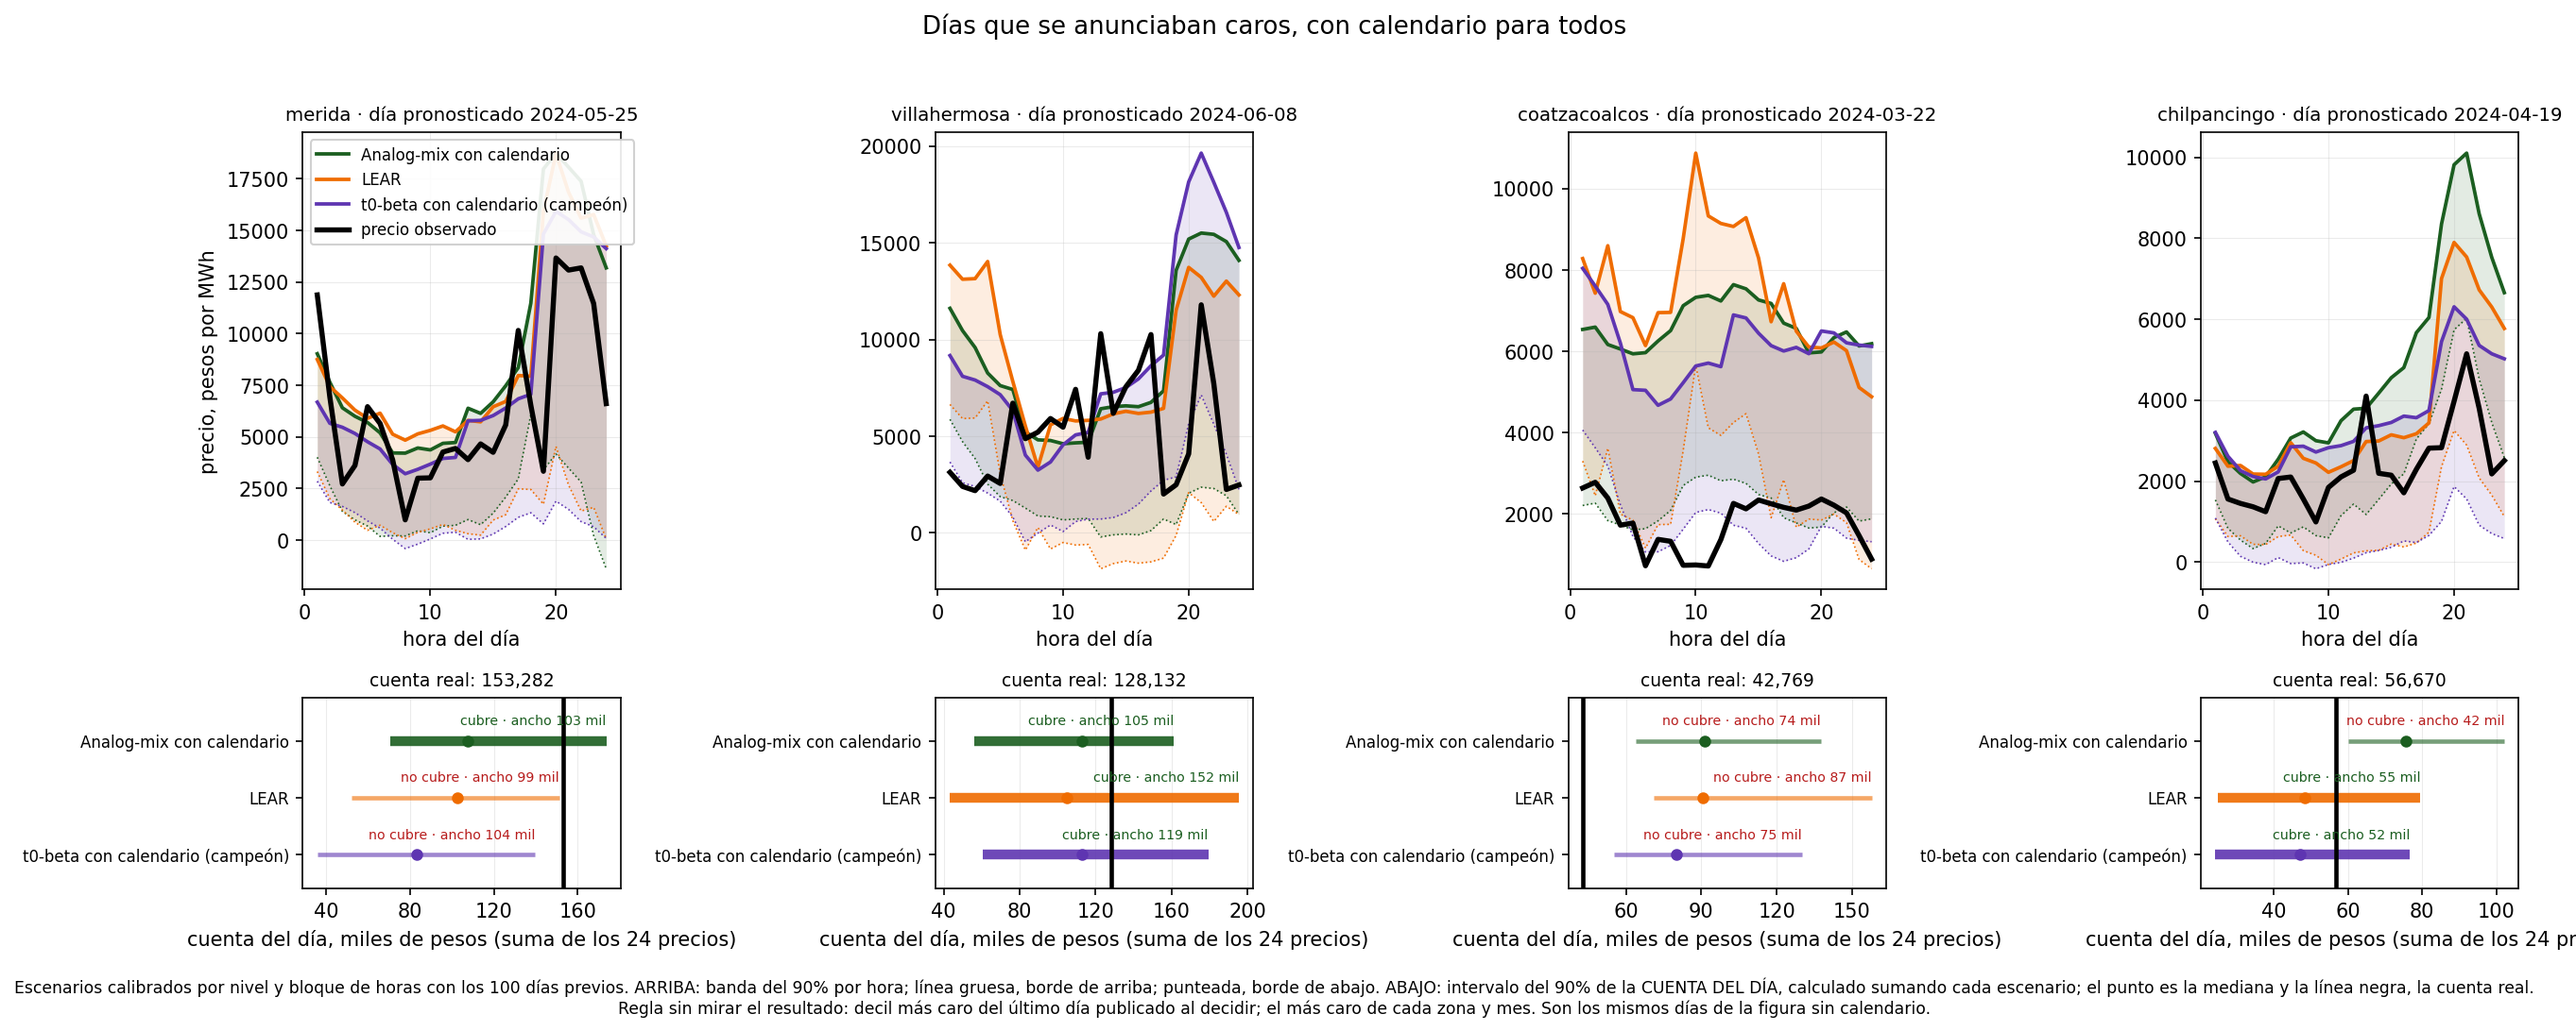
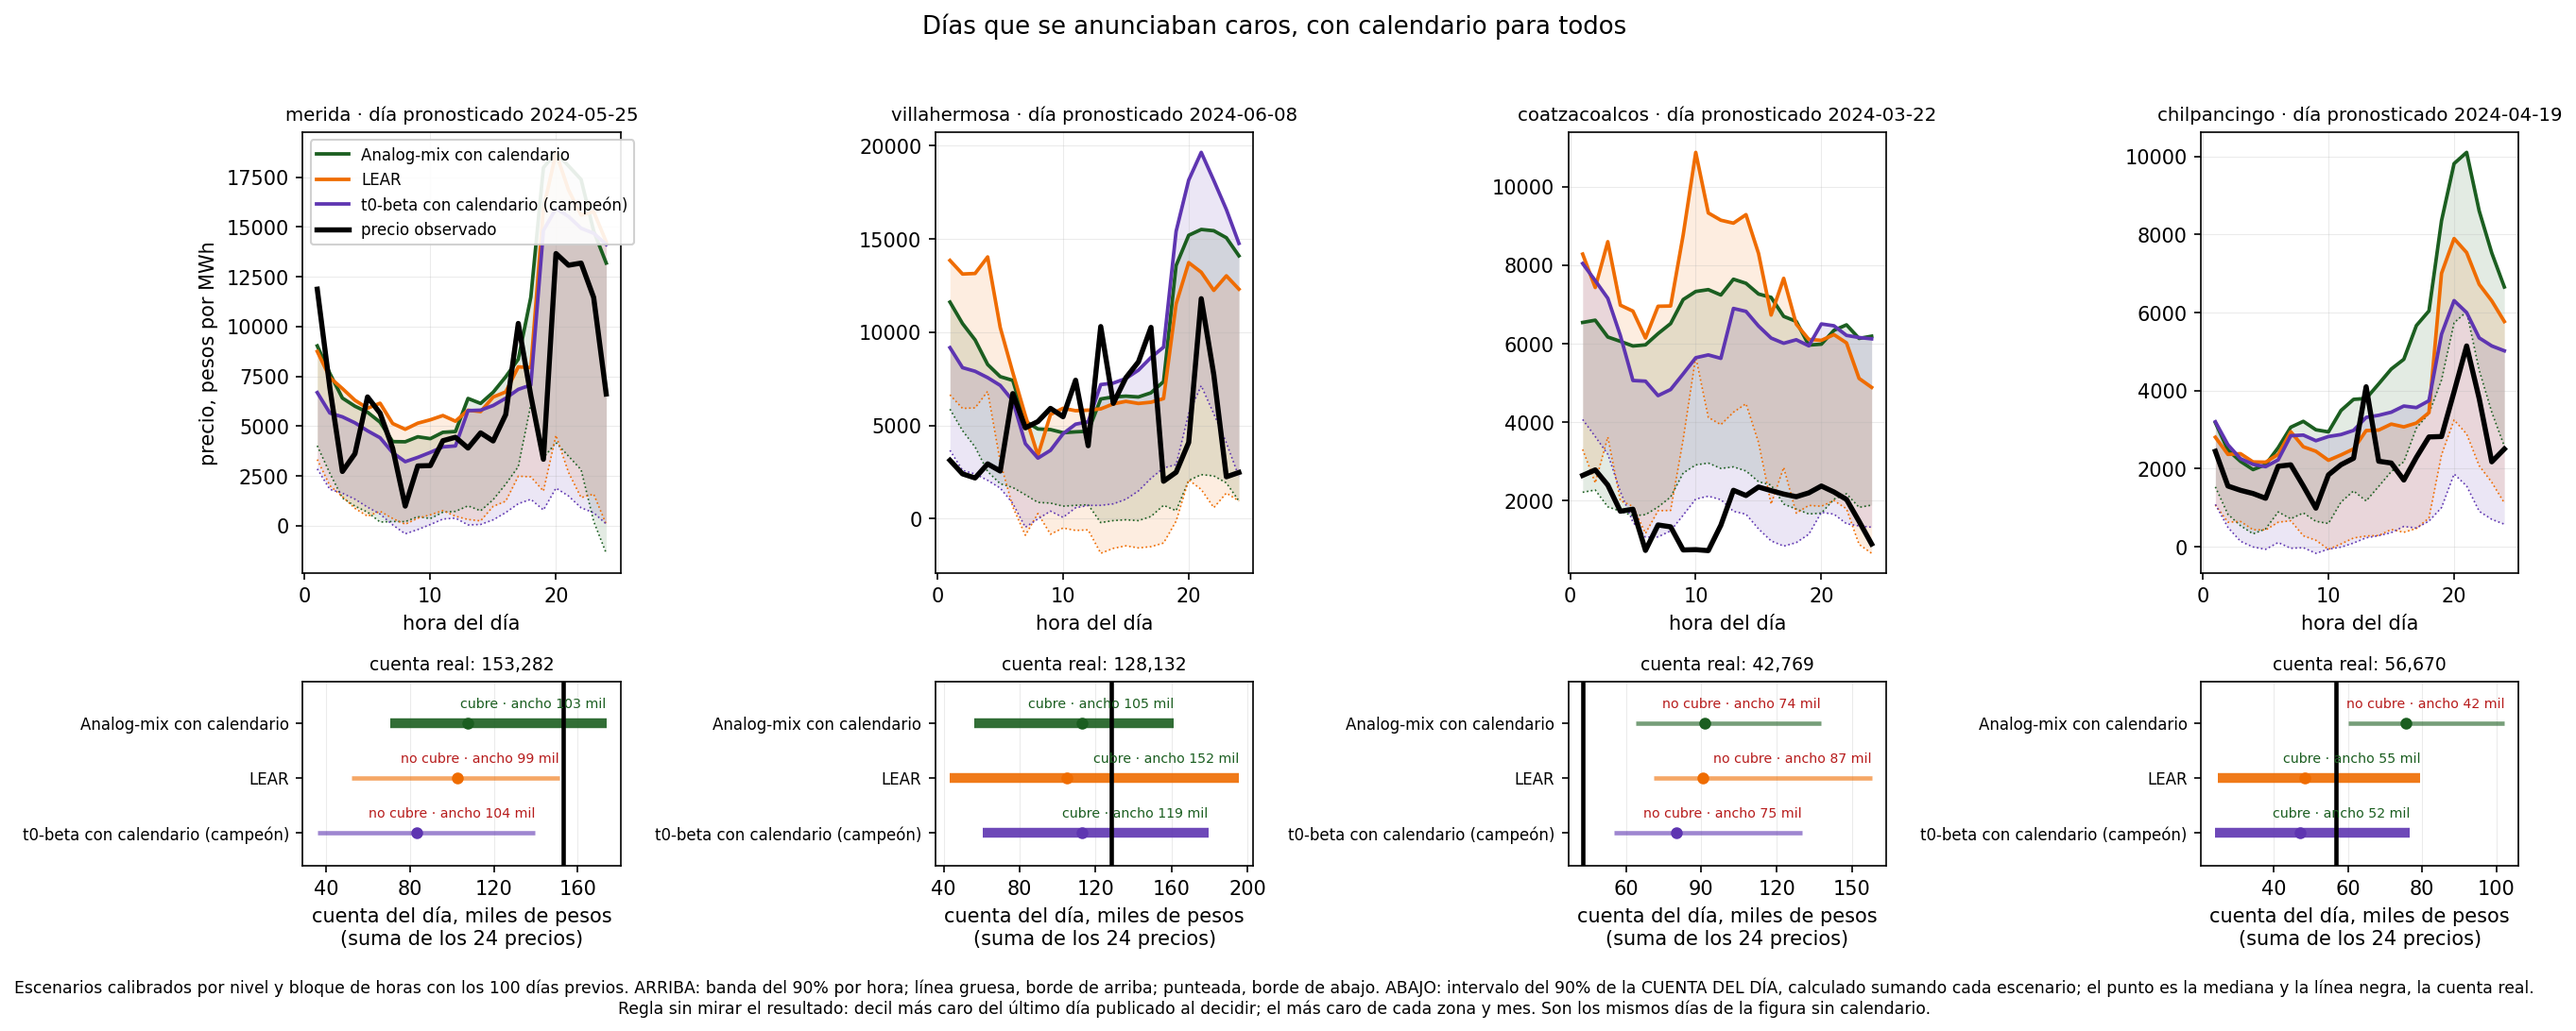
figuras: festivos entre semana y dias sorteados, con calendario
Dos figuras nuevas para el articulo: cuatro festivos entre semana escogidos antes de
mirar el resultado de cada metodo en ellos, y cuatro dias sorteados del tramo de prueba
con semilla fija. La nota de la de festivos aclara que la mediana de t0-beta no sabe
que es festivo, aunque sus errores si vienen de domingos y festivos pasados.

El rotulo del eje de la cuenta del dia pasa a dos lineas: en una sola se cortaba en el
ultimo panel de cada figura.

diff --git a/experiments/figuras_calendario.py b/experiments/figuras_calendario.py
@@ -3,7 +3,7 @@ Las figuras del artículo con la configuración de calendario: el método análo
 continuaciones del mismo tipo de día, y los escenarios de errores de t0-beta usan sólo
 errores pasados del mismo tipo de día.
 
-Tres figuras:
+Cinco figuras:
 1. ``figura_anunciados_caros_calendario.png``: los mismos cuatro días de la figura de días
    que se anunciaban caros (regla sin mirar el resultado), con los métodos con calendario.
 2. ``figura_domingos_calendario.png``: cuatro domingos fijados de antemano, sin mirar el
@@ -13,6 +13,14 @@ Tres figuras:
    domingo con la forma de un día laborable.
 3. ``figura_ancho_por_hora_calendario.png``: ancho y cobertura por hora con cada
    calibración, para t0-beta y el análogo, los dos con calendario.
+4. ``figura_festivos_calendario.png``: cuatro festivos entre semana escogidos antes de
+   mirar el resultado de cada método en ellos (1 de mayo de 2023, 16 de septiembre de
+   2024, 25 de diciembre de 2024 y 1 de enero de 2025) en cuatro zonas de regiones
+   distintas, con el análogo sin y con calendario y t0-beta con calendario. El filtro
+   trata el festivo como domingo; la mediana de t0-beta no sabe que es festivo, aunque
+   sus errores sí vienen de domingos y festivos pasados.
+5. ``figura_dias_sorteados_calendario.png``: cuatro días sorteados del tramo de prueba
+   con semilla fija, de zonas y meses distintos, con los tres métodos con calendario.
 
 Usa las mismas funciones de ``figuras_calibradas.py``: escenarios calibrados por nivel y
 bloque de horas con los cien días previos, y la cuenta del día calculada sumando cada
@@ -69,6 +77,35 @@ def domingos():
                 ## el origen es la hora 23 del día anterior al pronosticado
                 dias.append((zona, fecha - pd.Timedelta(hours=1)))
                 break
+    return dias
+
+
+FESTIVOS_ELEGIDOS = [("villahermosa", "2023-05-01"), ("hermosillo", "2024-09-16"),
+                     ("tampico", "2024-12-25"), ("zamora", "2025-01-01")]
+SEMILLA_SORTEO = 20261008
+
+
+def festivos_elegidos():
+    return [(z, pd.Timestamp(f) - pd.Timedelta(hours=1)) for z, f in FESTIVOS_ELEGIDOS]
+
+
+def dias_sorteados(cuantos=4):
+    """Días al azar del tramo de prueba, con semilla fija, de zonas y meses distintos."""
+    import numpy as np
+    from experiments.protocol import load_selected_zones
+    zonas = load_selected_zones()["zonas"]
+    t = pd.read_parquet(RESULTS / "calendario" / f"{zonas[0]}.parquet", columns=["origin"])
+    origenes = sorted(t.origin.unique())[40:]
+    rng = np.random.default_rng(SEMILLA_SORTEO)
+    vistos, dias = set(), []
+    while len(dias) < cuantos:
+        zona = zonas[rng.integers(len(zonas))]
+        origen = pd.Timestamp(origenes[rng.integers(len(origenes))])
+        mes = origen.strftime("%Y-%m")
+        if zona in vistos or mes in vistos:
+            continue
+        vistos.update({zona, mes})
+        dias.append((zona, origen))
     return dias
 
 
@@ -141,8 +178,23 @@ def main():
                        comun + "Días fijados antes de mirar el resultado: el primer domingo no "
                        "festivo de marzo, junio, septiembre y diciembre de 2024, en cuatro "
                        "zonas de regiones distintas.")
+    fc.calibrados.cache_clear()
+    _con(DOMINGOS, COLORES_CAL)
+    r4 = fc.una_figura(festivos_elegidos(), "figura_festivos_calendario.png",
+                       "Cuatro festivos entre semana: el análogo sin y con calendario",
+                       comun + "Festivos escogidos antes de mirar el resultado: 1 de mayo de "
+                       "2023, 16 de septiembre de 2024, 25 de diciembre de 2024 y 1 de enero "
+                       "de 2025, en cuatro zonas de regiones distintas. El filtro trata el "
+                       "festivo como domingo; la mediana de t0-beta no sabe que es festivo, "
+                       "aunque sus errores sí vienen de domingos y festivos pasados.")
+    fc.calibrados.cache_clear()
+    _con(CON_CALENDARIO, COLORES_CAL)
+    r5 = fc.una_figura(dias_sorteados(), "figura_dias_sorteados_calendario.png",
+                       "Cuatro días cualquiera, sorteados, con calendario para todos",
+                       comun + f"Días sorteados del tramo de prueba con semilla fija "
+                       f"({SEMILLA_SORTEO}), de zonas y meses distintos.")
     r3 = figura_por_hora()
-    for r in (r1, r2, r3):
+    for r in (r1, r2, r3, r4, r5):
         print("escrito", r)
 
 

diff --git a/experiments/figuras_calibradas.py b/experiments/figuras_calibradas.py
@@ -142,7 +142,7 @@ def una_figura(dias, nombre, titulo, nota):
         abajo.set_ylim(0.4, len(cuentas) + 0.75)
         abajo.xaxis.set_major_locator(MaxNLocator(5))
         abajo.xaxis.set_major_formatter(FuncFormatter(lambda v, _: f"{v / 1000:,.0f}"))
-        abajo.set_xlabel("cuenta del día, miles de pesos (suma de los 24 precios)")
+        abajo.set_xlabel("cuenta del día, miles de pesos\n(suma de los 24 precios)")
         abajo.grid(alpha=0.25, lw=0.5, axis="x")
         abajo.set_title(f"cuenta real: {cuenta_real:,.0f}", fontsize=9)
     ejes[0, 0].set_ylabel("precio, pesos por MWh")
